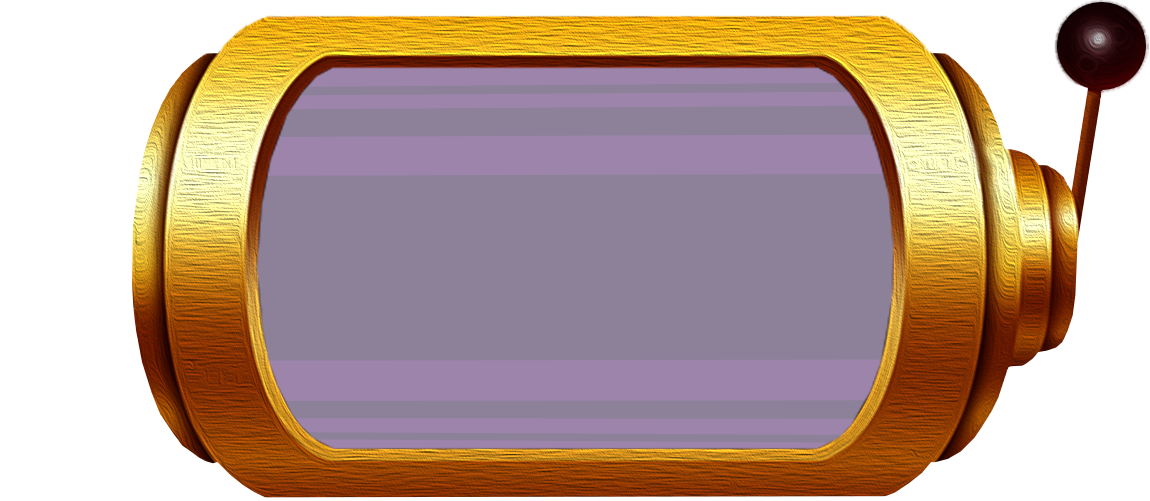
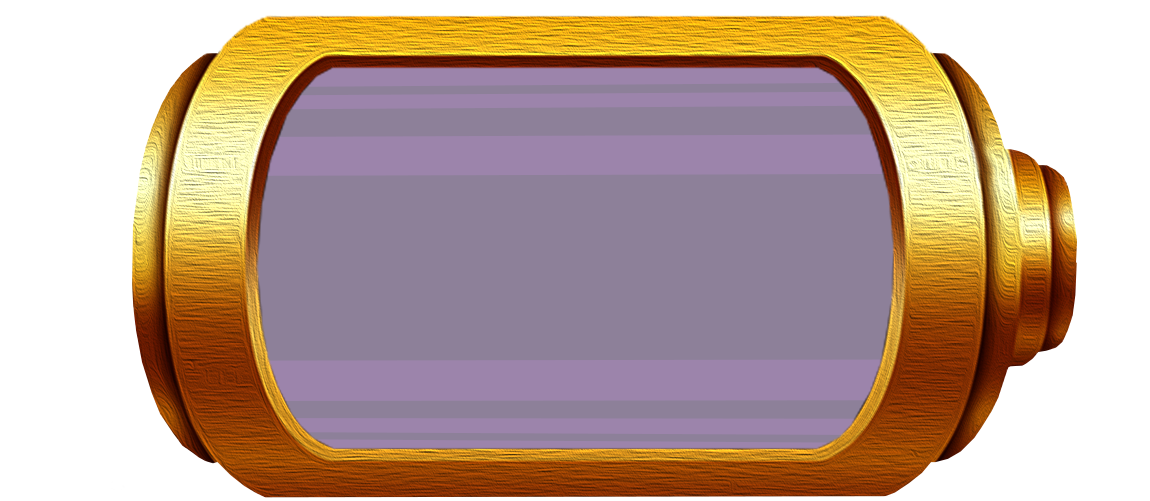
autocommit

Changed region(s): [[0.913, 0.0, 1.0, 0.479]]

diff --git a/MagicRoulette/index.html b/MagicRoulette/index.html
@@ -102,7 +102,7 @@
 		}
 		
 		function girar(velGiro){
-			
+		
 			if(flag == 1){
 		
 				audioLoop.play();
@@ -177,17 +177,47 @@
 				}
 			}			
 		}
+		
+		function palanca(){
+		
+			if(flag == 1){
+				perilla.style.transform = 'translate(470px, 350px) scale(1)';
+				palillo.style.transform = 'translate(480px, 30px) scaleY(-1)';
+				setTimeout(()=> {
+					fixPalanca();
+				}, 1000);
+			}
+			else{
+				palancaTraba();
+			}
+		}
+		
+		function palancaTraba(){
+			perilla.style.transform = 'translate(470px, 80px) scale(1)';
+			palillo.style.transform = 'translate(480px, 30px) scaleY(0.7)';
+			setTimeout(()=> {
+				fixPalanca();
+			}, 500);
+			
+		}
+		
+		function fixPalanca(){
+			perilla.style.transform = 'translate(470px, 0px) scale(1) ';
+			palillo.style.transform = 'translate(480px, 30px) scale(1)';
+		}
     </script>
 </head>
 <body onload="rellenoInicial(0)">
 <div>
 	<div style="width:100%; min-height:600px;text-align: center;">
 		<img src="fondo.png" style="transform: translate(-50%, 0%);top:45px; position:absolute">
+		<img src="palillo.png" id="palillo" style="transform-origin: 50% 100%;transition: all 0.5s;-webkit-transition: all 0.5s;transform: translate(480px, 30px);top:45px; position:absolute">
 		<img id="slot1" src="" width="408" style="transform: translate(-50%, 0%) perspective(50em) rotateX(90deg);left: 50%;top:0px; position:absolute">
 		<img id="slot2" src="" width="408" style="transform: translate(-50%, 0%) perspective(50em) rotateX(90deg);left: 50%;top:0px; position:absolute">
 		<img id="slot3" src="" width="408" style="transform: translate(-50%, 0%) perspective(50em) rotateX(90deg);left: 50%;top:0px; position:absolute">
 		<img id="slot4" src="" width="408" style="transform: translate(-50%, 0%) perspective(50em) rotateX(90deg);left: 50%;top:0px; position:absolute">
-		<img src="ruleta magica.png" style="transform: translate(-50%, 0%);top:45px; position:absolute">		
+		<img src="ruleta magica.png" style="transform: translate(-50%, 0%);top:45px; position:absolute">	
+		<img src="perilla.png" id="perilla" style="transition: all 0.5s;-webkit-transition: all 0.5s;transform: translate(470px, 0px);top:45px; position:absolute" onclick="palanca();girar(10)">		
 	</div>
 	
 	<div style="text-align:center;max-width:700px; margin-left:auto; margin-right:auto;">
